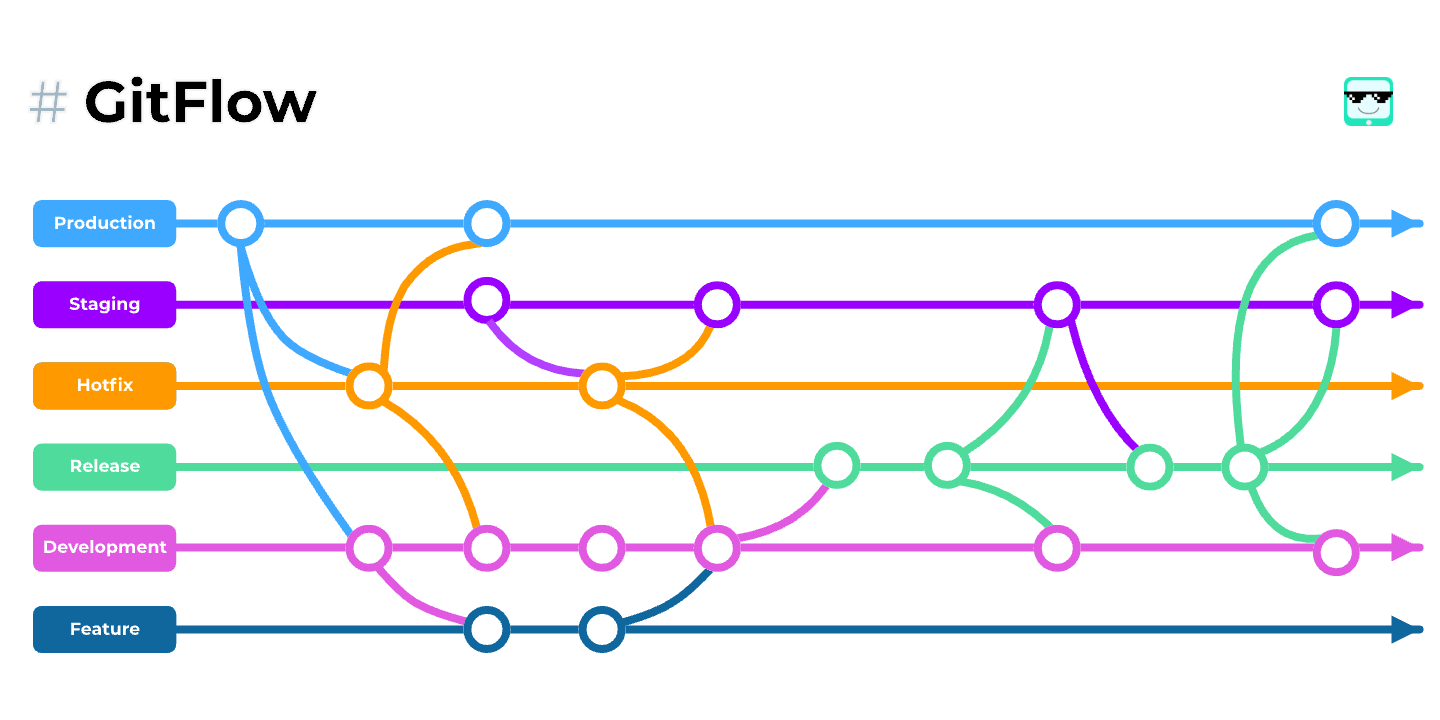
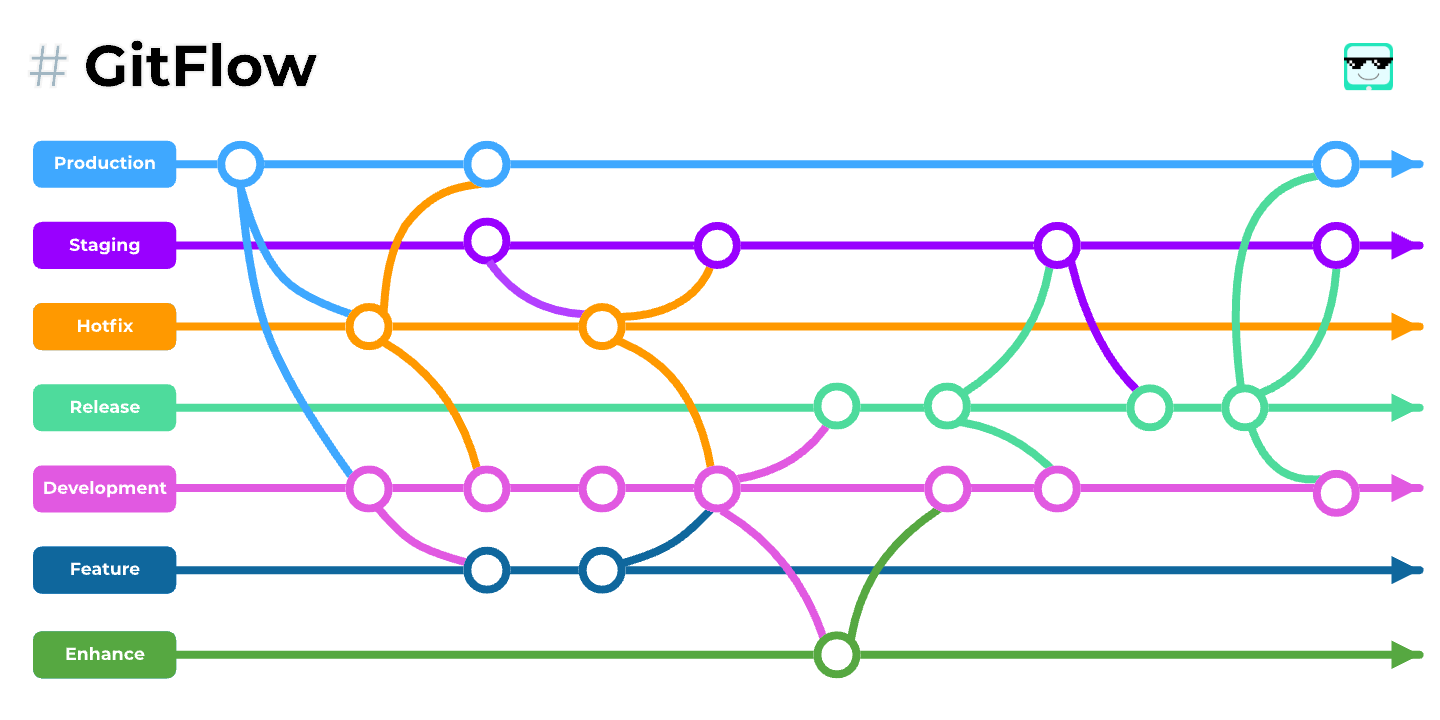
update git flow

Changed region(s): [[0.0, 0.0611, 1.0, 0.9472], [0.9062, 0.0611, 0.9688, 0.1833]]

diff --git a/docs/repository/git-flow.md b/docs/repository/git-flow.md
@@ -35,6 +35,7 @@ The different types of branches we may use are:
  1. Feature branches
  2. Release branches
  3. Hotfix branches
+ 4. Enhance branches
    
 Each of these branches have a specific purpose and are bound to strict rules as to which branches may be their originating branch and which branches must be their merge targets.
 
@@ -54,7 +55,7 @@ development
 
 - Branch naming convention:
 ```bash
-feature-TicketNumber]
+feature-[TicketNumber]
 
 # example:
 feature-DY79
@@ -363,6 +364,68 @@ Finally, remove the temporary branch:
 ```bash
 $ git branch -d hotfix-beta-1.2.2
 # delete branch 
+```
+
+### Enhance branches
+
+- May branch off from:
+  
+```bash
+development
+```
+
+- Must merge back into:
+  
+```bash
+development
+```
+
+- Branch naming convention:
+```bash
+enhance-[ShorDescription]
+
+# example:
+enhance-migration
+enhance-auth-optimation
+```
+
+Feature branches are used when developing a new feature which has the potential of a development lifespan longer than a single deployment. When starting development, the deployment in which this feature will be released may not be known. No matter when the feature branch will be finished, it will always be merged back into the <b>development</b> branch.
+
+#### Creating a enhance branch 
+When starting work on a new enhance, branch off from the develop branch.
+```bash
+$ git checkout -b enhance-[ShortDescription] development
+# Switched to a new branch "enhance-[ShorDescription]"
+```
+
+#### Creating a derivative enhance branch 
+Derivative enhance branch applied if developer who do enhance more than 1.
+This branch is from parent enhance-[ShorDescription] and must merge back to enhance-[ShorDescription]
+```bash
+$ git checkout -b enhance-[ShortDescription]-[developerName] enhance-[ShortDescription]
+# example -b enhance-migration-irufano
+
+# do enhancement then commit your task
+
+# checkout to enhance-[ShortDescription] and rebase enhance-[ShortDescription]-[developerName]
+
+$ git checkout enhance-[ShortDescription]
+$ git reabse enhance-[ShortDescription]-[developerName]
+```
+
+#### Finished enhance on development
+
+```bash
+$ git checkout development
+# Switched to branch 'development'
+
+$ git rebase enhance-[ShortDescription]
+# use rebase instead of merge
+
+$ git branch -d enhance-[ShortDescription]
+# Deleted branch enhance-[ShortDescription] (was 05e9557).
+
+$ git push -f origin development
 ```
 
 ## Git Bash
